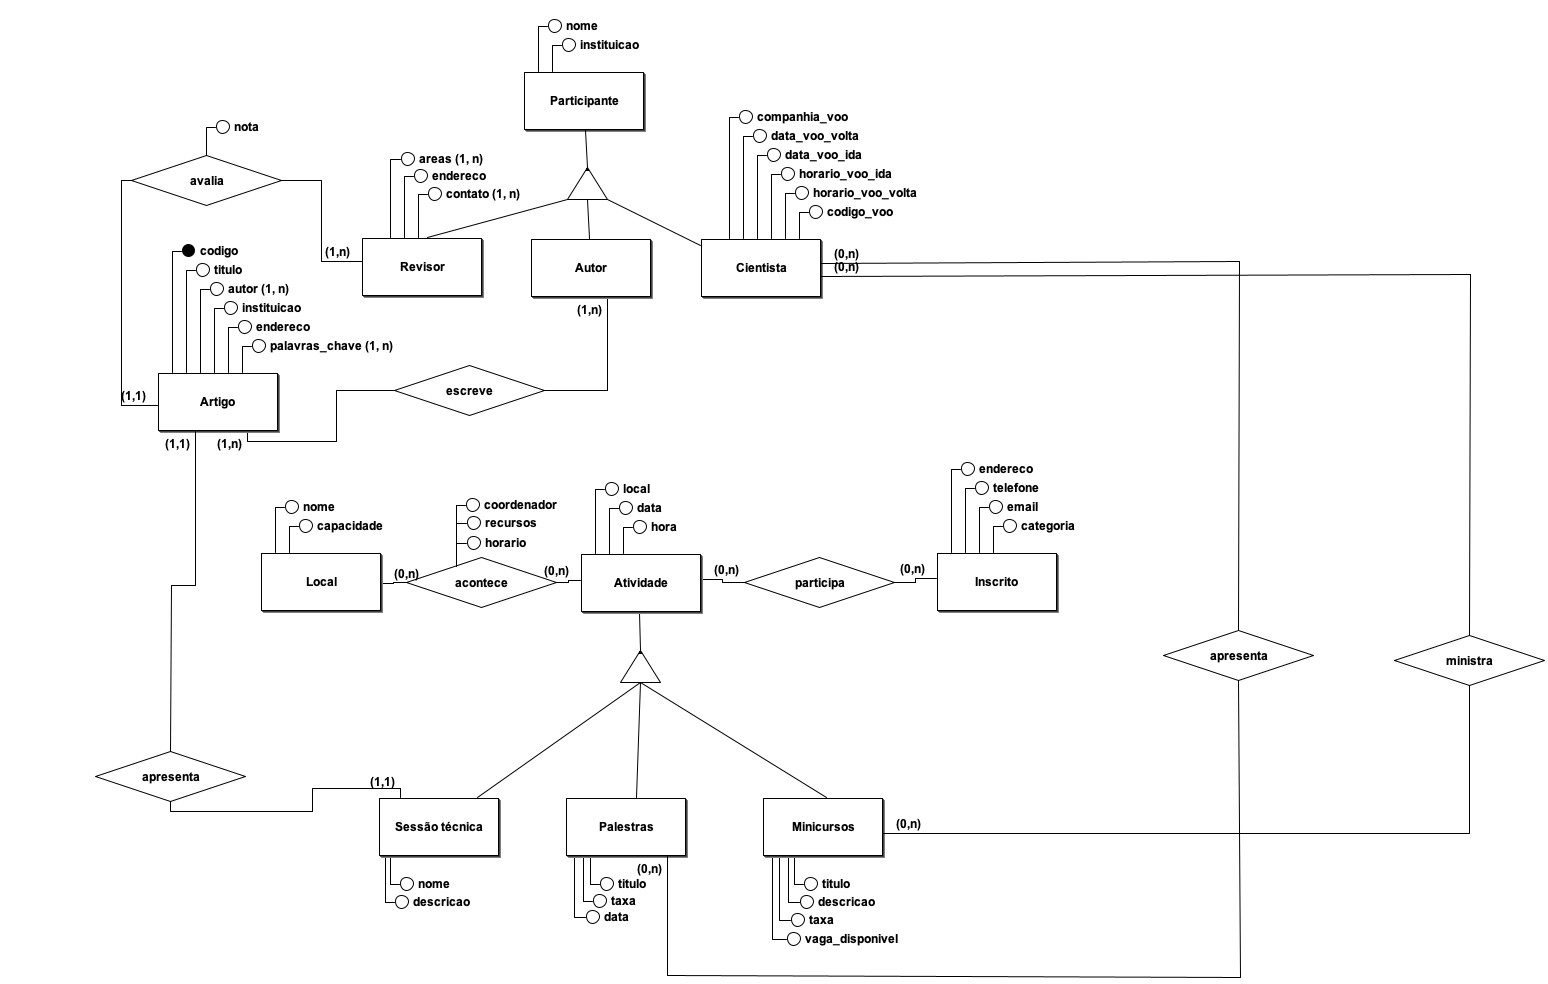
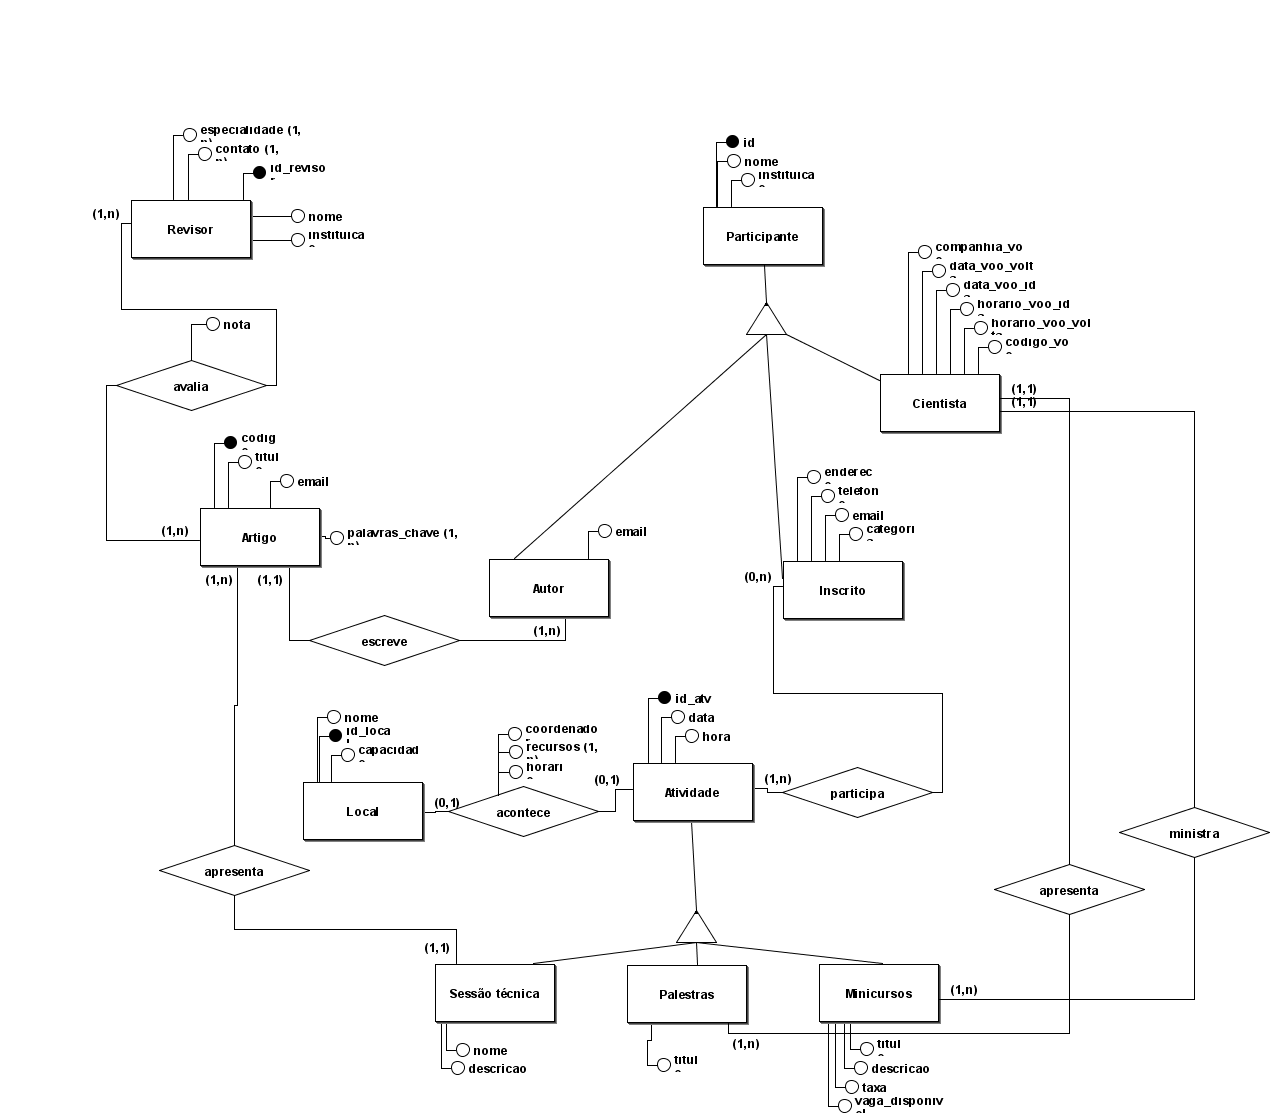
Atualização do readme.md
Adicionado a imagem do modelo lógico

diff --git a/readme.md b/readme.md
@@ -10,7 +10,7 @@ Disciplina: Programação II e Banco de Dados
 
 ## Modelo Lógico
 
-Em breve.
+![modelo_logico](/database/cbbd-logico.png)
 
 ## Modelo Físico
 
